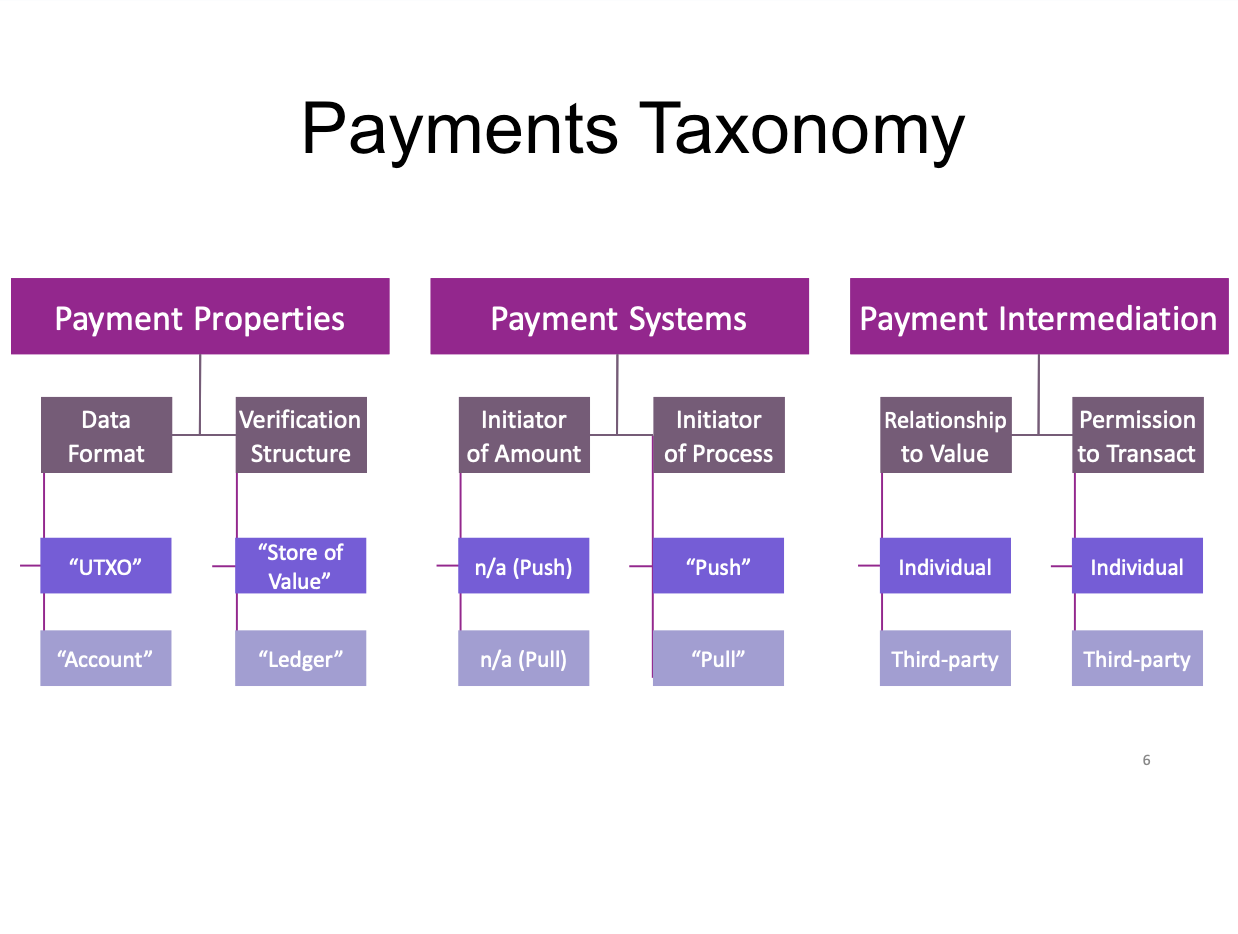
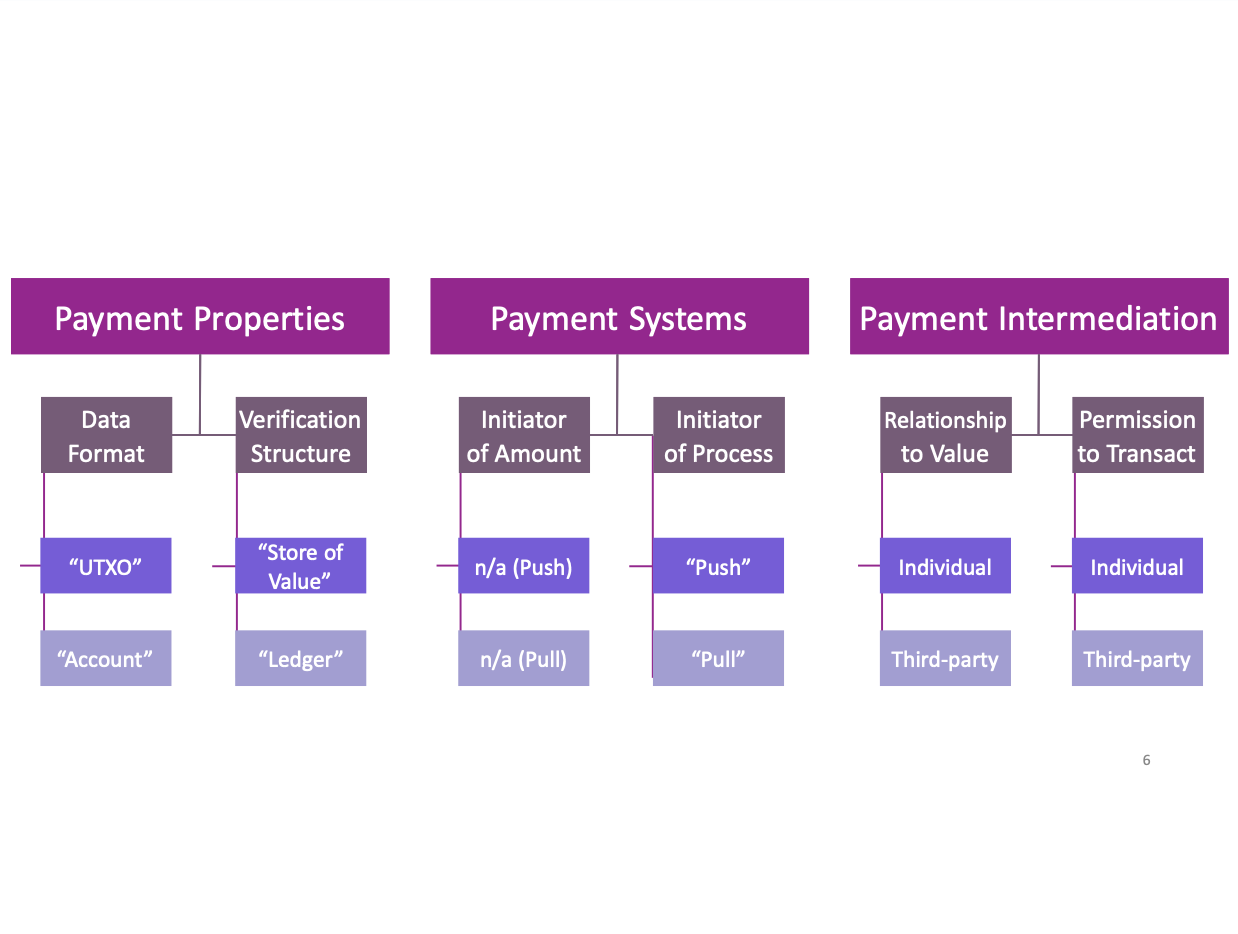
lalalala

Changed region(s): [[0.2456, 0.0931, 0.7981, 0.1863]]

diff --git a/created.html b/created.html
@@ -52,14 +52,49 @@
           </div>
         </a>
 
-          <a href="cnxns.html" class="project-card">
-          <img src="assets/images/cnxns.png" alt="cnxns">
+          <a href="tokensvaccounts.html" class="project-card">
+          <img src="assets/images/taxonomy.png" alt="tokens vs accounts">
           <div class="project-info">
-            <h4 style="font-family: monospace; font-size: large;">cnxns</h4>
+            <h4 style="font-family: monospace; font-size: large;">payments taxonomy</h4>
+            <span> paper; presentation<span>
+            <br>
+            <br>
+            <p>novel framework of tokens vs. accounts developed at the Fed</p>
+          </div>
+        </a>
+
+
+
+         <a href="tdi.html" class="project-card">
+          <img src="assets/images/tdi.png" alt="cnxns">
+          <div class="project-info">
+            <h4 style="font-family: monospace; font-size: large;">tenacious diagnostics</h4>
             <span>website<span>
             <br>
             <br>
-            <p>bootleg nyt connections</p>
+            <p>investor and customer-facing demo site</p>
+          </div>
+        </a>
+
+                <a href="inmusing.html" class="project-card">
+          <img src="assets/images/inmusing.png" alt="doodle">
+          <div class="project-info">
+            <h4 style="font-family: monospace; font-size: large;">in musing</h4>
+            <span>personal blog<span>
+            <br>
+            <br>
+            <p>miscellaneous substacks</p>
+          </div>
+        </a>
+
+                <a href="lawreports.html" class="project-card">
+          <img src="assets/images/lawreports.png" alt="productivity report">
+          <div class="project-info">
+            <h4 style="font-family: monospace; font-size: large;">automated revenue reports</h4>
+            <span>reports; automations; handoff guide<span>
+            <br>
+            <br>
+            <p>automated data pull workflows and revenue reports for local law firm</p>
           </div>
         </a>
 
@@ -74,6 +109,28 @@
           </div>
         </a>
 
+                <a href="synapse-rf.html" class="project-card">
+          <img src="assets/images/synapse.png" alt="correlation matrix">
+          <div class="project-info">
+            <h4 style="font-family: monospace; font-size: large;">synapse predication</h4>
+            <span>jupyter notebook; paper<span>
+            <br>
+            <br>
+            <p>random forest classifier predictions of neural synpase formation</p>
+          </div>
+        </a>
+
+                  <a href="cnxns.html" class="project-card">
+          <img src="assets/images/cnxns.png" alt="cnxns">
+          <div class="project-info">
+            <h4 style="font-family: monospace; font-size: large;">cnxns</h4>
+            <span>website<span>
+            <br>
+            <br>
+            <p>bootleg nyt connections</p>
+          </div>
+        </a>
+
         <a href="ankiconvo.html" class="project-card">
           <img src="assets/images/ankiconvo.png" alt="cnxns">
           <div class="project-info">
@@ -85,16 +142,7 @@
           </div>
         </a>
 
-        <a href="tdi.html" class="project-card">
-          <img src="assets/images/tdi.png" alt="cnxns">
-          <div class="project-info">
-            <h4 style="font-family: monospace; font-size: large;">tenacious diagnostics</h4>
-            <span>website<span>
-            <br>
-            <br>
-            <p>investor and customer-facing demo site</p>
-          </div>
-        </a>
+       
 
         <a href="siteception.html" class="project-card">
           <img src="assets/images/dx.png" alt="cnxns">
@@ -108,28 +156,6 @@
         </a>
 
 
-          <a href="tokensvaccounts.html" class="project-card">
-          <img src="assets/images/taxonomy.png" alt="tokens vs accounts">
-          <div class="project-info">
-            <h4 style="font-family: monospace; font-size: large;">payments taxonomy</h4>
-            <span> paper; presentation<span>
-            <br>
-            <br>
-            <p>novel framework of tokens vs. accounts developed at the Fed</p>
-          </div>
-        </a>
-
-        <a href="lawreports.html" class="project-card">
-          <img src="assets/images/lawreports.png" alt="productivity report">
-          <div class="project-info">
-            <h4 style="font-family: monospace; font-size: large;">automated revenue reports</h4>
-            <span>reports; automations; handoff guide<span>
-            <br>
-            <br>
-            <p>automated data pull workflows and revenu reports for local law firm</p>
-          </div>
-        </a>
-
         <a href="flashloans.html" class="project-card">
           <img src="assets/images/flashloans.png" alt="flash loans">
           <div class="project-info">
@@ -141,16 +167,7 @@
           </div>
         </a>
 
-        <a href="synapse-rf.html" class="project-card">
-          <img src="assets/images/synapse.png" alt="correlation matrix">
-          <div class="project-info">
-            <h4 style="font-family: monospace; font-size: large;">ML research</h4>
-            <span>jupyter notebook; paper<span>
-            <br>
-            <br>
-            <p>random forest classifier predictions of neural synpase formation</p>
-          </div>
-        </a>
+
 
         <a href="linal.html" class="project-card">
           <img src="assets/images/linal.png" alt="linear algebra">
@@ -163,16 +180,7 @@
           </div>
         </a>
 
-                <a href="inmusing.html" class="project-card">
-          <img src="assets/images/inmusing.png" alt="doodle">
-          <div class="project-info">
-            <h4 style="font-family: monospace; font-size: large;">in musing</h4>
-            <span>personal blog<span>
-            <br>
-            <br>
-            <p>miscellaneous substacks</p>
-          </div>
-        </a>
+
 
           <a href="fiction.html" class="project-card">
           <img src="assets/images/fiction.png" alt="honestly idk">
@@ -216,15 +224,25 @@
             <p>follow your friends' to-do lists</p>
           </div>
         </a>
-
-          <a href="cnxns.html" class="project-card">
-          <img src="assets/images/cnxns.png" alt="cnxns">
+         <a href="tdi.html" class="project-card">
+          <img src="assets/images/tdi.png" alt="cnxns">
           <div class="project-info">
-            <h4 style="font-family: monospace; font-size: large;">cnxns</h4>
+            <h4 style="font-family: monospace; font-size: large;">tenacious diagnostics</h4>
             <span>website<span>
             <br>
             <br>
-            <p>bootleg nyt connections</p>
+            <p>investor and customer-facing demo site</p>
+          </div>
+        </a>
+
+        <a href="lawreports.html" class="project-card">
+          <img src="assets/images/lawreports.png" alt="productivity report">
+          <div class="project-info">
+            <h4 style="font-family: monospace; font-size: large;">automated revenue reports</h4>
+            <span>reports; automations; handoff guide<span>
+            <br>
+            <br>
+            <p>automated data pull workflows and revenue reports for local law firm</p>
           </div>
         </a>
 
@@ -238,7 +256,6 @@
             <p>agents that talk to each other and you</p>
           </div>
         </a>
-
        <a href="ankiconvo.html" class="project-card">
           <img src="assets/images/ankiconvo.png" alt="cnxns">
           <div class="project-info">
@@ -249,17 +266,16 @@
             <p>full-stack landing page with database and payments</p>
           </div>
         </a>
-
-        <a href="tdi.html" class="project-card">
-          <img src="assets/images/tdi.png" alt="cnxns">
+ <a href="cnxns.html" class="project-card">
+          <img src="assets/images/cnxns.png" alt="cnxns">
           <div class="project-info">
-            <h4 style="font-family: monospace; font-size: large;">tenacious diagnostics</h4>
+            <h4 style="font-family: monospace; font-size: large;">cnxns</h4>
             <span>website<span>
             <br>
             <br>
-            <p>investor and customer-facing demo site</p>
+            <p>bootleg nyt connections</p>
           </div>
-        </a>
+        </a>       
 
                 <a href="siteception.html" class="project-card">
           <img src="assets/images/dx.png" alt="cnxns">
@@ -293,17 +309,16 @@
           </div>
         </a>
 
-        <a href="lawreports.html" class="project-card">
-          <img src="assets/images/lawreports.png" alt="productivity report">
+        <a href="synapse-rf.html" class="project-card">
+          <img src="assets/images/synapse.png" alt="correlation matrix">
           <div class="project-info">
-            <h4 style="font-family: monospace; font-size: large;">automated revenue reports</h4>
-            <span>reports; automations; handoff guide<span>
+            <h4 style="font-family: monospace; font-size: large;">synapse predication</h4>
+            <span>jupyter notebook; paper<span>
             <br>
             <br>
-            <p>automated data pull workflows and revenu reports for local law firm</p>
+            <p>random forest classifier predictions of neural synpase formation</p>
           </div>
         </a>
-
         <a href="flashloans.html" class="project-card">
           <img src="assets/images/flashloans.png" alt="flash loans">
           <div class="project-info">
@@ -314,18 +329,6 @@
             <p>an analysis of flash loan externalities in the crypto ecosystem</p>
           </div>
         </a>
-
-        <a href="synapse-rf.html" class="project-card">
-          <img src="assets/images/synapse.png" alt="correlation matrix">
-          <div class="project-info">
-            <h4 style="font-family: monospace; font-size: large;">ML research</h4>
-            <span>jupyter notebook; paper<span>
-            <br>
-            <br>
-            <p>random forest classifier predictions of neural synpase formation</p>
-          </div>
-        </a>
-
         <a href="linal.html" class="project-card">
           <img src="assets/images/linal.png" alt="linear algebra">
           <div class="project-info">

diff --git a/tdi.html b/tdi.html
@@ -52,7 +52,7 @@
       </p>
 
       <img
-        src="assets/images/ankiconvo.png"
+        src="assets/images/tdi.png"
         alt="cat screenshot"
         class="project-hero"
         width="220px"
@@ -89,11 +89,12 @@
       <h3>why</h3>
 
       <p>
-        Over the past couple of years, I've been chief of staff to the 2 founders of a pre-seed medical device startup,
+        Tenacious Diagnostics is a pre-seed medical device startup,
          aiming to treat 
         dysphagia through an implantable medical device. The 2 co-founders have been working to prototype and patent, 
-        while I cover operations/GTM/Bizdev. While we are still early stages, I sought to mock a demo page while also 
-        familiarizing myself with Claude Code. Note that most information on this site are placeholders.
+        while I cover operations/GTM/Bizdev. While we are still early stages, I sought to mock a demo page with
+         Claude Code. Note that most of the content on this site is a placeholder at the moment, as we are 
+         still conducting product research.
       </p>
 
       <br>
@@ -109,14 +110,14 @@
       <br>
       <h3>how</h3>
       <p>
-        This app was purely vibecoded through prompting Claude code in my terminal. And I had to make a 
-      Vercel account in my browser, but that was pretty much it.</p>
+        This app was purely vibecoded through prompting Claude code in my terminal.</p>
 
 
       <h3>reflections</h3>
 
       <p>
-        This was my first time using Clade Code and - wow.
+        This was my first time using Clade Code and - wow. This demo site took maybe an hour from opening terminal to 
+        what it is now.
       </p>
 
       <p>

diff --git a/siteception.html b/siteception.html
@@ -52,7 +52,7 @@
       </p>
 
       <img
-        src="assets/images/ankiconvo.png"
+        src="assets/images/dx.png"
         alt="cat screenshot"
         class="project-hero"
         width="220px"
@@ -114,7 +114,7 @@
 
       <p>
         lots of work and lots of fun! definitely some manual quick fixes that I did to just get the site ready, so may 
-        revisit for a cleaner structure, especially of the project cards. will be an ongoing work in progress1
+        revisit for a cleaner structure, especially of the project cards. will be an ongoing work in progress!
       </p>
 
       <p>

diff --git a/synapse-rf.html b/synapse-rf.html
@@ -45,7 +45,7 @@
       </a>
       <br>
       <br>
-      <h2 style="font-family: monospace; font-style: normal; text-transform: lowercase; font-width: 200px;">neural synpase prediction</h2>
+      <h2 style="font-family: monospace; font-style: normal; text-transform: lowercase; font-width: 200px;">neural synapse prediction</h2>
 
       <p style="margin-left: 0px;">
         tldr: trained random forest model to predict neuron synapse formation; key features include nuclei distance, 

diff --git a/index.html b/index.html
@@ -24,7 +24,6 @@
   </header>
 
     <div class="wrap page-body content">
-      >site under construction at the moment, view at your own risk<
 <br> <br>
     seeks out <h2 style = "margin-bottom: 0px;""><a href = "about.html" style = "color: black;">words, math, </a></h2> and
     <h2><a href = "created.html" style = "color: black;"><u>impact.</u></a><sup><a href="about.html#fn1">1, 2</a>